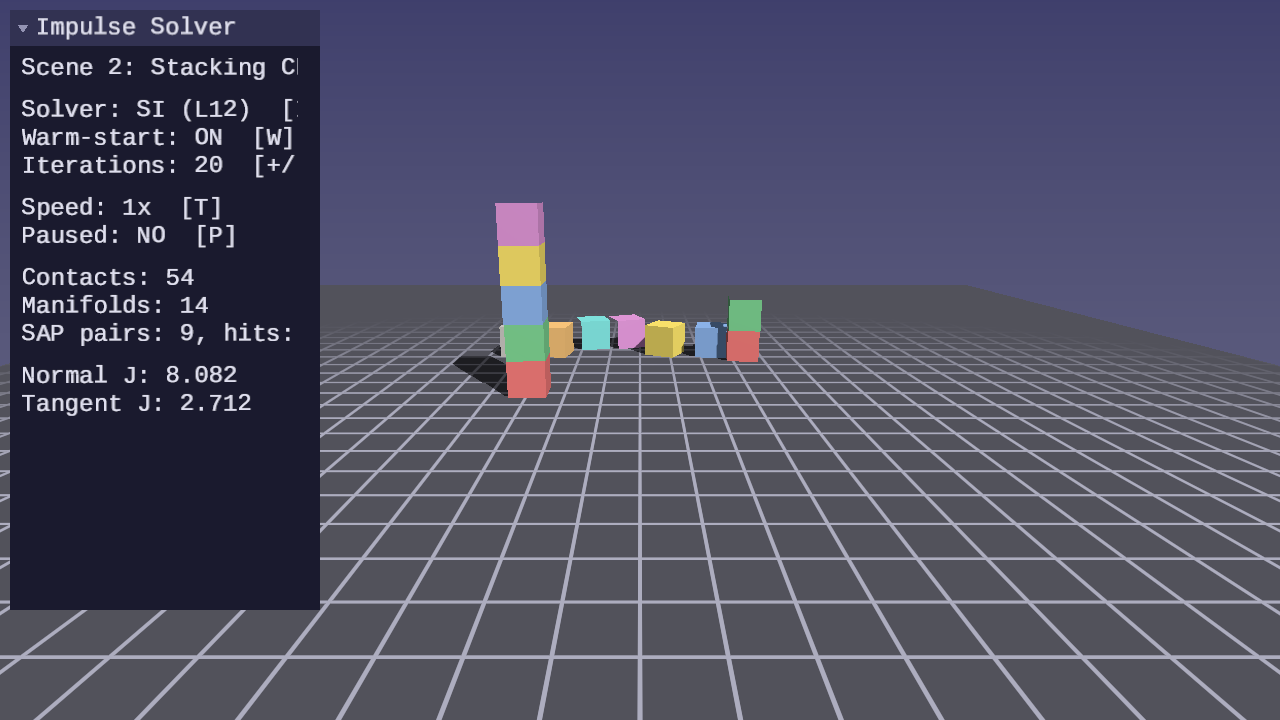
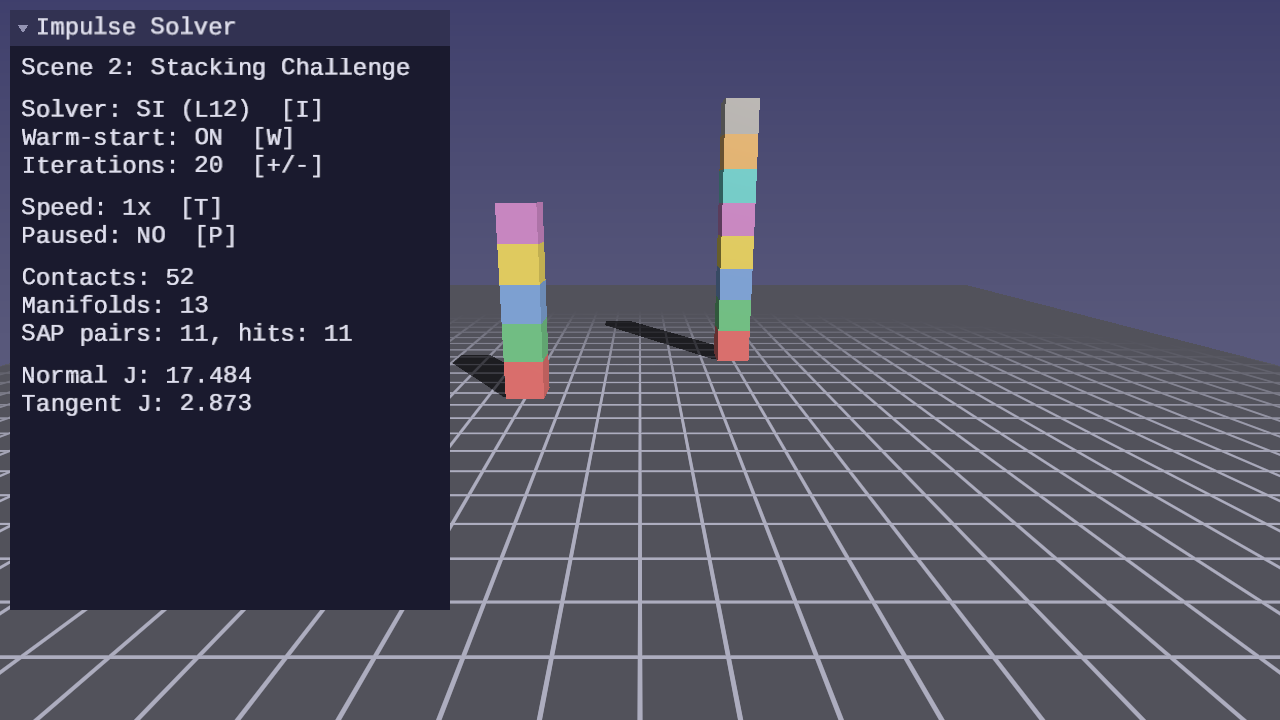
Update: Widen UI panel in Physics Lesson 12 (#362)
Increase PANEL_W from 310 to 440 for better readability.
Retake screenshot and GIF to reflect the wider panel.

Files changed:
- lessons/physics/12-impulse-based-resolution/main.c — PANEL_W 310→440
- lessons/physics/12-impulse-based-resolution/assets/screenshot.png — retaken
- lessons/physics/12-impulse-based-resolution/assets/animation.gif — retaken

Changed region(s): [[0.125, 0.0, 0.5938, 0.8556], [0.125, 0.3667, 0.1562, 0.3972]]

diff --git a/lessons/physics/12-impulse-based-resolution/main.c b/lessons/physics/12-impulse-based-resolution/main.c
@@ -95,7 +95,7 @@
 /* UI layout */
 #define PANEL_X              10.0f            /* panel left edge */
 #define PANEL_Y              10.0f            /* panel top edge */
-#define PANEL_W             310.0f            /* panel width */
+#define PANEL_W             440.0f            /* panel width */
 #define PANEL_H             600.0f            /* panel height */
 #define LABEL_HEIGHT          18.0f           /* text label height in UI panel */
 #define LABEL_SPACER          4.0f            /* vertical spacing between labels */
